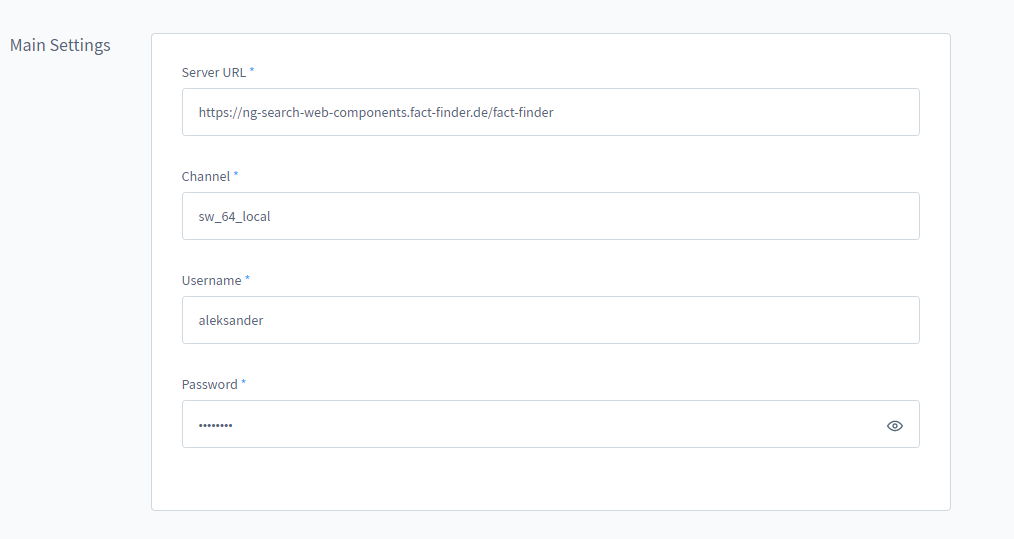
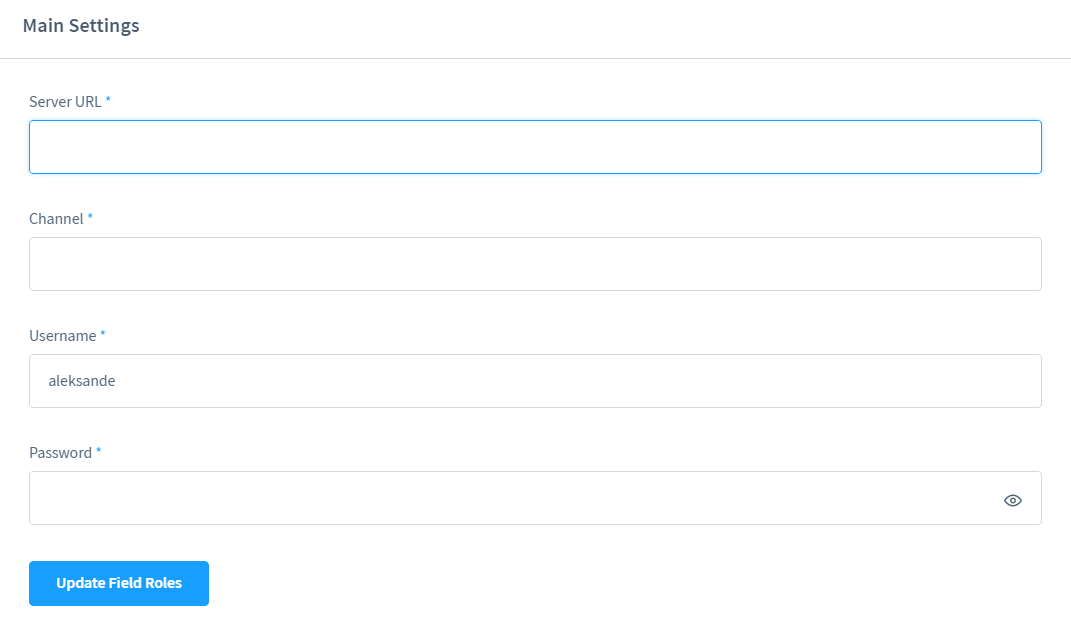
FFWEB-2511: Update field roles

diff --git a/src/Resources/app/administration/src/module/configuration/component/update-field-roles/index.js b/src/Resources/app/administration/src/module/configuration/component/update-field-roles/index.js
@@ -1,0 +1,31 @@
+import template from './update-field-roles.html.twig';
+
+const {Component, Mixin} = Shopware;
+
+Component.register('update-field-roles', {
+        template,
+        inject: ['fieldRolesService',],
+        mixins: [
+            Mixin.getByName('notification'),
+            Mixin.getByName('sw-inline-snippet'),
+        ],
+        data() {
+            return {
+                isLoading: false,
+                isSaveSuccessful: false,
+            };
+        },
+
+        methods: {
+            async onClick() {
+                this.isLoading = true;
+                const response = await this.fieldRolesService.sendUpdateFieldRoles();
+                this.isSaveSuccessful = true;
+                this.isLoading = false;
+                this.createNotificationSuccess({
+                    message: this.$tc('configuration.updateFieldRoles.update')
+                })
+            },
+        },
+    },
+);

diff --git a/src/Resources/app/administration/src/main.js b/src/Resources/app/administration/src/main.js
@@ -9,9 +9,16 @@ import './module/sw-cms/elements/campaigns';
 import './module/sw-cms/elements/shared/shared.scss';
 import './module/sw-cms/blocks/shared/shared.scss';
 import './module/ui-feed-export';
+import './module/configuration';
+import './init/field-roles-service.init';
 
-import deDE from './module/sw-cms/snippet/de-DE.json';
-import enGB from './module/sw-cms/snippet/en-GB.json';
+import deDECms from './module/sw-cms/snippet/de-DE.json';
+import enGBCms from './module/sw-cms/snippet/en-GB.json';
 
-Shopware.Locale.extend('de-DE', deDE);
-Shopware.Locale.extend('en-GB', enGB);
+import deDEConfig from './module/configuration/snippet/de-DE.json';
+import enGBConfig from './module/configuration/snippet/en-GB.json';
+
+Shopware.Locale.extend('de-DE', deDEConfig);
+Shopware.Locale.extend('de-DE', deDECms);
+Shopware.Locale.extend('en-GB', enGBConfig);
+Shopware.Locale.extend('en-GB', enGBCms);

diff --git a/src/Resources/app/administration/src/services/field-roles.service.js b/src/Resources/app/administration/src/services/field-roles.service.js
@@ -1,0 +1,19 @@
+const ApiService = Shopware.Classes.ApiService;
+
+class FieldRolesService extends ApiService
+{
+    constructor(httpClient, loginService) {
+        super(httpClient, loginService, null, 'application/json');
+        this.name = 'fieldRolesServiceApi';
+    }
+
+    sendUpdateFieldRoles() {
+        const headers = this.getBasicHeaders();
+        return this.httpClient
+                   .get(`_action/field-roles/update`, {headers}).then((response) => {
+                       return ApiService.handleResponse(response);
+                   });
+    }
+}
+
+export default FieldRolesService;

diff --git a/src/Resources/app/administration/src/init/field-roles-service.init.js b/src/Resources/app/administration/src/init/field-roles-service.init.js
@@ -1,0 +1,5 @@
+import FieldRolesService from '../services/field-roles.service'
+
+Shopware.Service().register('fieldRolesService', () => {
+    return new FieldRolesService(Shopware.Application.getContainer('init').httpClient, Shopware.Service('loginService'));
+});

diff --git a/src/Resources/app/administration/src/module/configuration/index.js b/src/Resources/app/administration/src/module/configuration/index.js
@@ -1,0 +1,1 @@
+import './component/update-field-roles';

diff --git a/spec/Config/FieldRolesSpec.php b/spec/Config/FieldRolesSpec.php
@@ -1,0 +1,57 @@
+<?php
+
+declare(strict_types=1);
+
+namespace spec\Omikron\FactFinder\Shopware6\Config;
+
+use Omikron\FactFinder\Communication\Resource\Search;
+use Omikron\FactFinder\Shopware6\Config\Communication;
+use PhpSpec\ObjectBehavior;
+use Prophecy\Argument;
+use Shopware\Core\System\SystemConfig\SystemConfigService;
+
+class FieldRolesSpec extends ObjectBehavior
+{
+    public function let(Search $search, Communication $communication, SystemConfigService $systemConfigService)
+    {
+        $this->beConstructedWith($search, $communication, $systemConfigService);
+    }
+
+    public function it_should_map_fields_correctly(
+        Search              $search,
+        Communication       $communication,
+        SystemConfigService $systemConfigService
+    ) {
+
+        $searchResult = [
+            'fieldRoles' => [
+                'brand'         => 'Manufacturer',
+                'deeplink'      => 'Deeplink',
+                'description'   => 'Description',
+                'imageUrl'      => 'ImageUrl',
+                'masterId'      => 'Master',
+                'price'         => 'Price',
+                'productName'   => 'Name',
+                'productNumber' => 'ProductNumber',
+            ]
+        ];
+
+        $communication->getChannel(Argument::any())->willReturn('some_chnnel');
+        $search->search('some_chnnel', '*')->willReturn($searchResult);
+        $expected =  [
+            'brand'                 => 'Manufacturer',
+            'campaignProductNumber' => 'ProductNumber',
+            'deeplink'              => 'Deeplink',
+            'description'           => 'Description',
+            'displayProductNumber'  => 'ProductNumber',
+            'ean'                   => null,
+            'imageUrl'              => 'ImageUrl',
+            'masterArticleNumber'   => 'Master',
+            'price'                 => 'Price',
+            'productName'           => 'Name',
+            'trackingProductNumber' => 'ProductNumber'
+        ];
+
+        $this->getRoles(Argument::any())->shouldReturn($expected);
+    }
+}

diff --git a/src/Config/FieldRoles.php b/src/Config/FieldRoles.php
@@ -1,0 +1,54 @@
+<?php
+
+declare(strict_types=1);
+
+namespace Omikron\FactFinder\Shopware6\Config;
+
+use Omikron\FactFinder\Communication\Resource\Search;
+use Shopware\Core\System\SystemConfig\SystemConfigService;
+use function Omikron\FactFinder\Shopware6\Internal\Utils\safeGetByName;
+
+class FieldRoles
+{
+    private Search $search;
+    private Communication $communicationConfig;
+    private SystemConfigService $systemConfig;
+
+    public function __construct(Search $search, Communication $communication, SystemConfigService $systemConfig)
+    {
+        $this->search              = $search;
+        $this->communicationConfig = $communication;
+        $this->systemConfig        = $systemConfig;
+    }
+
+    public function getRoles(?string $salesChannelId): array
+    {
+        $searchResult = $this->search->search($this->communicationConfig->getChannel($salesChannelId), '*');
+        $fieldRoles   = $searchResult['fieldRoles'] ?? [];
+        return $this->map($fieldRoles);
+    }
+
+    public function update(array $fieldRoles, ?string $salesChannelId): void
+    {
+        $this->systemConfig->set('OmikronFactFinder.config.fieldRoles', $fieldRoles, $salesChannelId);
+    }
+
+    private function map(array $fieldRoles): array
+    {
+        $getRole = fn (string $key) => safeGetByName($fieldRoles, $key);
+
+        return [
+            'brand'                 => $getRole('brand'),
+            'campaignProductNumber' => $getRole('productNumber'),
+            'deeplink'              => $getRole('deeplink'),
+            'description'           => $getRole('description'),
+            'displayProductNumber'  => $getRole('productNumber'),
+            'ean'                   => $getRole('ean'),
+            'imageUrl'              => $getRole('imageUrl'),
+            'masterArticleNumber'   => $getRole('masterId'),
+            'price'                 => $getRole('price'),
+            'productName'           => $getRole('productName'),
+            'trackingProductNumber' => $getRole('productNumber'),
+        ];
+    }
+}

diff --git a/src/Api/UpdateFieldRolesController.php b/src/Api/UpdateFieldRolesController.php
@@ -1,0 +1,58 @@
+<?php
+
+declare(strict_types=1);
+
+namespace Omikron\FactFinder\Shopware6\Api;
+
+use Exception;
+use Omikron\FactFinder\Shopware6\Config\FieldRoles;
+use Shopware\Core\Framework\Context;
+use Shopware\Core\Framework\DataAbstractionLayer\EntityCollection;
+use Shopware\Core\Framework\DataAbstractionLayer\EntityRepositoryInterface;
+use Shopware\Core\Framework\DataAbstractionLayer\Search\Criteria;
+use Shopware\Core\Framework\Routing\Annotation\RouteScope;
+use Symfony\Bundle\FrameworkBundle\Controller\AbstractController;
+use Symfony\Component\HttpFoundation\JsonResponse;
+use Symfony\Component\Routing\Annotation\Route;
+
+/**
+ * @RouteScope(scopes={"api"})
+ */
+class UpdateFieldRolesController extends AbstractController
+{
+    private FieldRoles $fieldRoles;
+    private EntityRepositoryInterface $channelRepository;
+
+    public function __construct(FieldRoles $fieldRolesService, EntityRepositoryInterface $channelRepository)
+    {
+        $this->fieldRoles        = $fieldRolesService;
+        $this->channelRepository = $channelRepository;
+    }
+
+    /**
+     * @Route("/api/_action/field-roles/update", name="api.action.fact_finder.export_feed", methods={"GET"}, defaults={"XmlHttpRequest"=true})
+     *
+     * @return JsonResponse
+     *
+     * @throws Exception
+     */
+    public function execute(): JsonResponse
+    {
+        foreach ($this->fetchSalesChannels() as $salesChannel) {
+            $fieldRoles = $this->fieldRoles->getRoles($salesChannel->getId());
+            $this->fieldRoles->update($fieldRoles, $salesChannel->getId());
+        }
+
+        return new JsonResponse();
+    }
+
+    /**
+     * @SuppressWarnings(PHPMD.StaticAccess)
+     */
+    private function fetchSalesChannels(): EntityCollection
+    {
+        $context = Context::createDefaultContext();
+
+        return $this->channelRepository->search(new Criteria(), $context)->getEntities();
+    }
+}

diff --git a/src/Subscriber/ConfigurationSubscriber.php b/src/Subscriber/ConfigurationSubscriber.php
@@ -12,11 +12,8 @@ use Symfony\Component\EventDispatcher\EventSubscriberInterface;
 class ConfigurationSubscriber implements EventSubscriberInterface
 {
     private Communication $config;
-
     private array $fieldRoles;
-
     private array $communicationParameters;
-
     private array $addParams;
 
     public function __construct(
@@ -56,7 +53,7 @@ class ConfigurationSubscriber implements EventSubscriberInterface
         }
 
         $event->getPage()->addExtension('factfinder', new ArrayEntity([
-            'field_roles'   => $this->fieldRoles,
+            'field_roles'   => $this->config->getFieldRoles($salesChannelId) ?? $this->fieldRoles,
             'communication' => $communication + $this->communicationParameters,
         ]));
     }

diff --git a/spec/Subscriber/ConfigurationSubscriberSpec.php b/spec/Subscriber/ConfigurationSubscriberSpec.php
@@ -48,6 +48,7 @@ class ConfigurationSubscriberSpec extends ObjectBehavior
         $salesChannelContext->getSalesChannel()->willReturn($salesChannel);
         $salesChannel->getId()->willReturn('main_sales_channel');
         $communication->getChannel('main_sales_channel')->willReturn('some_ff_channel');
+        $communication->getFieldRoles(Argument::any())->willReturn([]);
         $event->getRequest()->willReturn($request);
         $request->get('_route')->willReturn('factfinder');
         $request->getLocale()->willReturn('en');

diff --git a/src/Config/Communication.php b/src/Config/Communication.php
@@ -23,4 +23,9 @@ class Communication extends BaseConfig
             (string) $this->config('password'),
         ];
     }
+
+    public function getFieldRoles(?string $salesChannelId): array
+    {
+        return (array) $this->config('fieldRoles', $salesChannelId);
+    }
 }

diff --git a/README.md b/README.md
@@ -11,6 +11,7 @@ final chapter *Exporting Feed* describes how to use provided console command to 
 - [Installation](#installation)
 - [Activating the Module](#activating-the-module)
 - [Main Settings](#main-settings)
+    - [Update Field Roles](#update-field-roles)
 - [Export Settings](#export-settings)
     - [Price Columns Format](#price-columns-format)
 - [Upload Settings](#upload-settings)
@@ -87,6 +88,14 @@ store cache in order the new applied configuration to start working.
 * Username
 * Password  
   **Note:** Module supports FACT-Finder® NG only.
+
+#### Update Field Roles
+This functionality offers a way to download field roles configured in FACT-Finder®.
+Please use this if you don't use feed offered by the plugin or for some reason you have changed the column names.
+You can find more information about what Field Roles are in (Web Components documentation)[https://web-components.fact-finder.de/documentation/4.x/field-roles]
+**Note:**
+ Updating process is ran for all sales channels, no need to run it separately for each of them
+
 
 ### Export Settings
 
